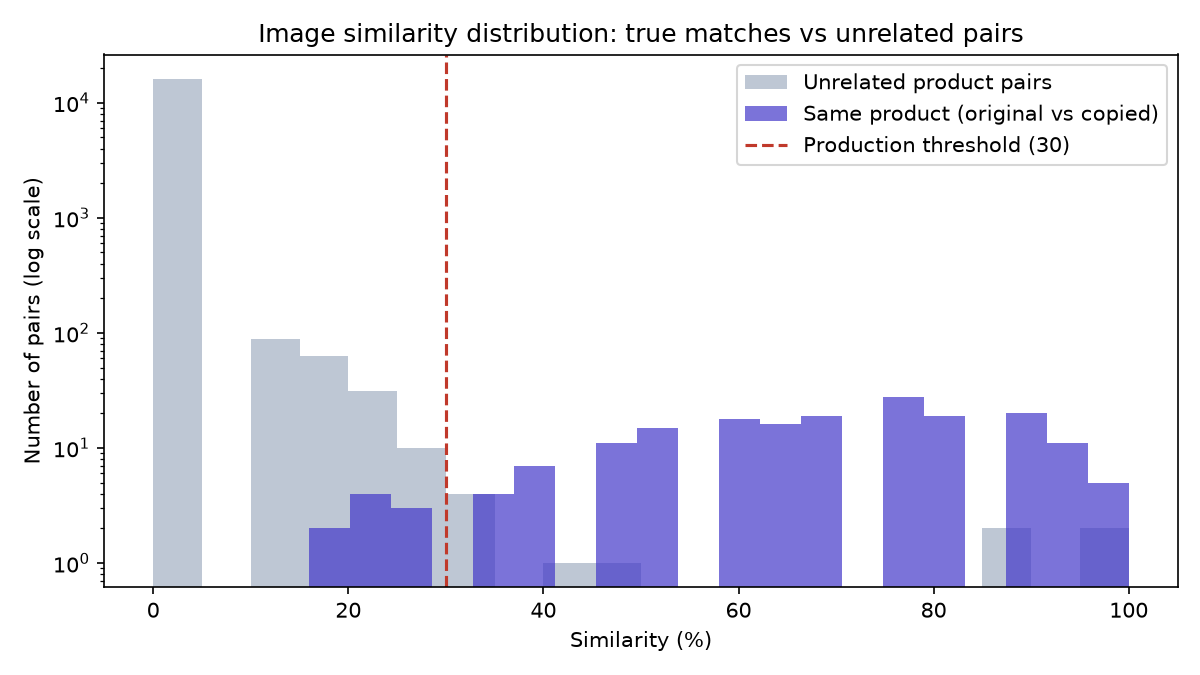
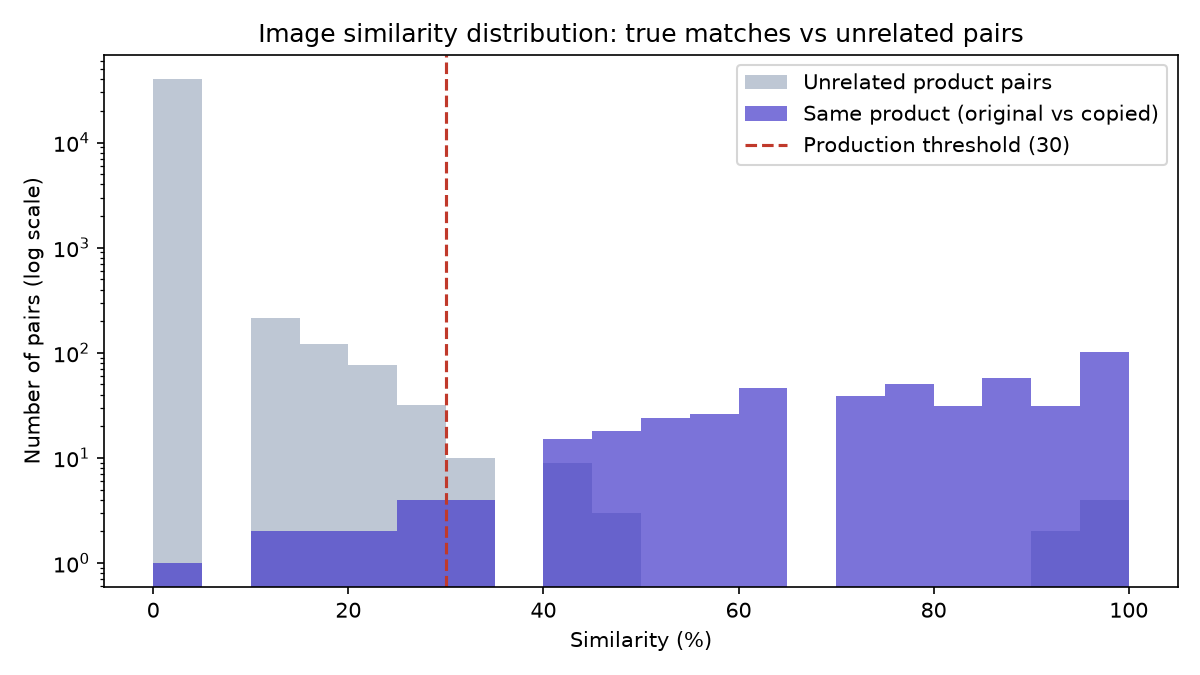
Rebuild accuracy dataset with realistic image-theft variants
Replace the two synthetic variants (crop+brightness, flip+watermark) with
five variants that model how copies actually appear: screenshot re-upload,
seller watermark, low-quality recompression, thumbnail reuse, and edited
recolor. Re-ran the sweep on 41,405 pairs; kept SIMILARITY_THRESHOLD=30 on
a recall-priority basis (recall 0.976 / precision 0.941 vs 0.967 / 0.961 at
35) since a missed copy costs more than a dismissible false positive and the
server re-verifies candidates. Documented as Iteration 6 in EXPERIMENT.md.

diff --git a/experiments/run_experiment.py b/experiments/run_experiment.py
@@ -1,12 +1,17 @@
 """정확도 실험: 실제 프로덕션 매칭 알고리즘(backend/matching.py)을 CC 라이선스
 실사 데이터셋(experiments/dataset)에 대해 돌려서 정확도를 측정한다.
 
+주제("소상공인이 자기 상품 사진을 올리면 도용본을 찾는다")에 맞게, 도용본은
+현실에서 실제로 나타나는 변형을 모사한다. 단순 크롭/반전이 아니라 스크린샷
+재업로드, 판매자 워터마크 삽입, 저품질 재압축, 목록 썸네일 재사용, 색보정 편집
+5가지를 상품마다 생성한다.
+
 절차:
-1. 각 원본 이미지에서 도용 변형본 2장(크롭+밝기조정 / 좌우반전+워터마크)을 생성
+1. 각 원본(=판매자 본인 상품 사진)에서 위 5종의 현실적 도용 변형본을 생성
 2. 모든 (쿼리=원본, 후보=변형본 전체) 쌍에 대해 유사도를 계산
    - 같은 상품의 변형본이면 True Positive 후보, 다른 상품의 변형본이면 False Positive 후보
 3. 임계값을 0~100까지 훑으며 precision/recall/F1을 계산해 최적 임계값을 찾고,
-   현재 프로덕션 임계값(SIMILARITY_THRESHOLD=35)과 비교한다
+   현재 프로덕션 임계값(SIMILARITY_THRESHOLD)과 비교한다
 4. 결과를 터미널에 표로 출력하고, results/ 아래에 CSV·PNG로 저장한다
 """
 import json
@@ -18,7 +23,7 @@ sys.path.insert(0, os.path.join(os.path.dirname(__file__), "..", "backend"))
 import matplotlib
 matplotlib.use("Agg")
 import matplotlib.pyplot as plt
-from PIL import Image, ImageDraw
+from PIL import Image, ImageDraw, ImageEnhance
 
 from matching import SIMILARITY_THRESHOLD, candidate_hashes, query_hashes, similarity_from_hashes
 
@@ -31,22 +36,43 @@ os.makedirs(RESULTS_DIR, exist_ok=True)
 
 
 def make_variants(pid, orig_path):
-    orig = Image.open(orig_path).convert("RGB")
+    """실제 이미지 도용에서 흔한 5가지 변형을 모사해 도용본을 만든다."""
+    orig = Image.open(orig_path).convert("RGB").resize((400, 400))
     outputs = {}
 
-    cropped = orig.resize((400, 400)).crop((10, 10, 390, 390)).resize((400, 400))
-    enhanced = Image.eval(cropped, lambda x: min(255, int(x * 1.08)))
-    path_a = os.path.join(VARIANT_DIR, f"{pid}_shopA.jpg")
-    enhanced.save(path_a)
-    outputs["shopA"] = path_a
+    # 1) 스크린샷 후 재업로드: 가장자리가 살짝 잘리고 축소 + JPEG 재압축
+    shot = orig.crop((10, 10, 390, 390)).resize((340, 340))
+    p = os.path.join(VARIANT_DIR, f"{pid}_screenshot.jpg")
+    shot.save(p, format="JPEG", quality=65)
+    outputs["screenshot"] = p
 
-    flipped = orig.resize((400, 400)).transpose(Image.FLIP_LEFT_RIGHT)
-    draw = ImageDraw.Draw(flipped)
-    draw.rectangle([310, 360, 400, 400], fill=(0, 0, 0))
-    draw.text((316, 372), "SALE", fill=(255, 255, 255))
-    path_b = os.path.join(VARIANT_DIR, f"{pid}_shopB.jpg")
-    flipped.save(path_b)
-    outputs["shopB"] = path_b
+    # 2) 판매자가 자기 상호 워터마크를 하단에 삽입
+    wm = orig.copy()
+    draw = ImageDraw.Draw(wm)
+    draw.rectangle([0, 366, 400, 400], fill=(0, 0, 0))
+    draw.text((10, 376), "BEST DEAL SHOP", fill=(255, 255, 255))
+    p = os.path.join(VARIANT_DIR, f"{pid}_watermark.jpg")
+    wm.save(p, format="JPEG", quality=80)
+    outputs["watermark"] = p
+
+    # 3) 저품질로 반복 재압축된 사본(밝기도 살짝 조정)
+    p = os.path.join(VARIANT_DIR, f"{pid}_recompress.jpg")
+    ImageEnhance.Brightness(orig).enhance(1.05).save(p, format="JPEG", quality=40)
+    outputs["recompress"] = p
+
+    # 4) 목록 썸네일을 그대로 긁어 재사용(축소본을 다시 확대해 디테일 손실)
+    th = orig.resize((220, 220)).resize((400, 400))
+    p = os.path.join(VARIANT_DIR, f"{pid}_thumbnail.jpg")
+    th.save(p, format="JPEG", quality=70)
+    outputs["thumbnail"] = p
+
+    # 5) '다르게 보이려' 좌우반전 + 채도/밝기 보정
+    flip = orig.transpose(Image.FLIP_LEFT_RIGHT)
+    flip = ImageEnhance.Color(flip).enhance(1.25)
+    flip = ImageEnhance.Brightness(flip).enhance(1.08)
+    p = os.path.join(VARIANT_DIR, f"{pid}_edited.jpg")
+    flip.save(p, format="JPEG", quality=80)
+    outputs["edited"] = p
 
     return outputs
 
@@ -56,6 +82,10 @@ def main():
         manifest = json.load(f)
 
     print(f"데이터셋: {len(manifest)}개 원본 (Openverse CC 라이선스 실사 이미지)\n")
+
+    # 변형 방식이 바뀌면 옛 변형본이 섞이지 않도록 먼저 비운다
+    for old in os.listdir(VARIANT_DIR):
+        os.remove(os.path.join(VARIANT_DIR, old))
 
     products = []
     for entry in manifest:

diff --git a/backend/matching.py b/backend/matching.py
@@ -9,7 +9,10 @@ phash(perceptual hash)만 쓰면 색상을 전혀 보지 않고 명암 구조만
 import imagehash
 from PIL import Image
 
-SIMILARITY_THRESHOLD = 30  # 실험(experiments/run_experiment.py, 104개 규모)으로 재튜닝한 값
+SIMILARITY_THRESHOLD = 30  # 실험으로 튜닝(experiments/run_experiment.py). 현실적 도용
+# 변형본 실험에서 F1 최적은 35였지만, 도용 탐지 도구는 "놓친 사본(FN)"이 "무시하면 되는
+# 오탐(FP)"보다 손해가 크고 서버가 2단계로 재검증하므로, recall이 더 높은 30을 채택했다
+# (threshold=30: recall 0.976 / precision 0.941, threshold=35: recall 0.967 / precision 0.961).
 COLOR_PENALTY_PER_UNIT = 12.0  # colorhash 거리 1당 유사도 감점
 MAX_COLOR_PENALTY = 75.0  # 색상 차이만으로 깎을 수 있는 최대치 (구조 일치는 여전히 반영)
 

diff --git a/EXPERIMENT.md b/EXPERIMENT.md
@@ -2,7 +2,7 @@
 
 카피캣 워치의 핵심 알고리즘(perceptual hash 기반 이미지 유사도 매칭)이 실제로 얼마나
 정확한지 검증하고, 프로덕션 유사도 임계값(`SIMILARITY_THRESHOLD`)을 데이터 기반으로
-정하기 위해 진행한 실험이다. 총 5번의 이터레이션을 거쳤다.
+정하기 위해 진행한 실험이다. 총 6번의 이터레이션을 거쳤다.
 
 | 단계 | 내용 | 결과 |
 |---|---|---|
@@ -11,6 +11,7 @@
 | Iteration 3 | colorhash를 결합해 색상 불일치 시 감점하도록 수정 → 두 데이터셋 모두 재검증 | F1 0.923→**1.000**(CC), 0.737→**0.962**(프로덕션 40개) |
 | Iteration 4 | 실시간 웹 검색 파이프라인을 2단계 검증(후보 수집 → 서버 실측 대조)으로 재설계, 실사용 중 발견된 OOM/502·중복노출 버그 수정 | 후보 15건→50건(재현율), 오탐 없이 전량 실측검증, 중복 자동 제거(예: 50→45건) |
 | Iteration 5 | 표본 크기를 대폭 확대(CC 18→91개, 프로덕션 데모셋 40→104개)해 재검증, 임계값 재튜닝 | 두 데이터셋 모두 threshold=**30**이 F1 최적(0.948 / 0.928)으로 확인되어 35→30으로 조정 |
+| Iteration 6 | 도용본을 주제에 맞게 **현실적 변형 5종**(스크린샷 재업로드·워터마크·저품질 재압축·썸네일 재사용·색보정)으로 재구성해 정확도 재측정 | 41,405쌍 평가, threshold=30에서 recall **0.976**/precision 0.941/F1 0.958 (F1 최적은 35였으나 recall 우선 원칙으로 30 유지) |
 
 ## 1. 데이터셋
 
@@ -35,19 +36,26 @@
 총 91개 이미지 수집 완료
 ```
 
-각 원본 이미지마다 실제 도용 시나리오를 흉내낸 변형본 2장을 생성했다 (프로덕션의
-`gen_demo_data.py`와 동일한 방식):
-- **shopA**: 크롭 + 밝기 조정 (다른 판매자가 사진을 재가공해서 올린 경우)
-- **shopB**: 좌우 반전 + 워터마크 (워터마크 붙여 재판매하는 경우)
+각 원본(=판매자 본인 상품 사진)마다, 이 서비스의 주제인 "실제 이미지 도용"이
+현실에서 어떻게 나타나는지를 모사한 변형본 5종을 생성했다 (Iteration 6에서 단순
+크롭/반전 2종에서 확대). 각 변형이 실제 도용 방식과 대응된다:
+- **screenshot**: 가장자리가 살짝 잘리고 축소 + JPEG 재압축 (스크린샷 찍어 재업로드)
+- **watermark**: 하단에 판매자 상호 워터마크 삽입 (워터마크 붙여 재판매)
+- **recompress**: 저품질(JPEG quality 40)로 반복 재압축 + 밝기 조정 (여러 번 퍼나른 사본)
+- **thumbnail**: 목록 썸네일을 그대로 긁어 재사용 (축소본을 다시 확대해 디테일 손실)
+- **edited**: 좌우 반전 + 채도/밝기 보정 ('다르게 보이려' 편집)
+
+생성 로직: [`experiments/run_experiment.py`](experiments/run_experiment.py)의 `make_variants()`
 
 ## 2. 실험 방법
 
 실험은 실제 배포된 매칭 함수(`backend/matching.py`)를 그대로 import해서 돌린다 —
 실험용으로 따로 구현한 코드가 아니라 **프로덕션과 100% 동일한 알고리즘**을 검증한다.
 
-각 원본을 쿼리로, 전체 변형본(전체 상품 수 × 2장, 자기 자신 제외)을 후보로 비교해
-유사도를 계산하고, 임계값을 0~100까지 5 단위로 훑으며 precision/recall/F1을 측정했다.
-Iteration 5 기준 91개 상품 × 182개 후보 = 16,562쌍을 평가했다.
+각 원본을 쿼리로, 전체 변형본(전체 상품 수 × 변형 종수)을 후보로 비교해 유사도를
+계산하고, 임계값을 0~100까지 5 단위로 훑으며 precision/recall/F1을 측정했다.
+Iteration 6 기준 91개 상품 × 455개 후보(상품당 현실적 변형 5종) = 41,405쌍을
+평가했다(진짜 매치 455건, 무관한 쌍 40,950건).
 
 실행: [`experiments/run_experiment.py`](experiments/run_experiment.py)
 
@@ -220,18 +228,51 @@ threshold=40: top-2 랭킹 부정확 = 19/104
 threshold=45: top-2 랭킹 부정확 = 21/104
 ```
 
-히스토그램도 표본이 커지며 무관한 쌍(16,380쌍)이 진짜 매치(182쌍)보다 90배 가까이
-많아져 일반 스케일로는 진짜 매치 막대가 안 보일 지경이 됐다. y축을 로그 스케일로
-바꿔서 둘 다 보이게 했다(`experiments/run_experiment.py`).
+히스토그램도 표본이 커지며 무관한 쌍이 진짜 매치보다 90배 가까이 많아져 일반
+스케일로는 진짜 매치 막대가 안 보일 지경이 됐다. y축을 로그 스케일로 바꿔서 둘 다
+보이게 했다(`experiments/run_experiment.py`). 이 차트는 이후 Iteration 6에서 변형
+방식이 바뀌며 재생성되어, 최신 차트는 아래 Iteration 6에서 확인할 수 있다.
 
-![유사도 분포: 진짜 매치 vs 무관한 쌍 (로그 스케일, 91개 상품)](experiments/results/similarity_distribution.png)
+## 8. Iteration 6 — 도용본을 현실적 변형 5종으로 재구성
 
-전체 결과 파일은 재생성되어 위 최신 수치를 반영한다:
+Iteration 5까지의 도용 변형본은 "크롭+밝기 / 좌우반전+워터마크" 2종뿐이라, 실제
+이미지 도용이 어떻게 일어나는지를 충분히 반영하지 못했다. 이 서비스의 주제가
+"판매자 본인 사진의 도용본 탐지"인 만큼, 정확도 숫자가 의미를 가지려면 도용본이
+현실적이어야 한다. 그래서 상품마다 변형본을 **현실적 5종**으로 재구성했다(위 1절 참고):
+스크린샷 재업로드 / 워터마크 삽입 / 저품질 재압축 / 썸네일 재사용 / 색보정 편집.
+
+표본은 91개 상품 × 5종 = 455개 후보, 총 **41,405쌍**(진짜 매치 455, 무관한 쌍
+40,950)으로 커졌다. 재압축·썸네일 재사용처럼 디테일이 크게 손상되는 변형이 섞이면서
+이전보다 난도가 높아졌다:
+
+```
+ threshold | precision |  recall |     f1 |    FP |    FN
+----------------------------------------------------------
+        25 |     0.882 |   0.985 |  0.930 |    60 |     7
+        30 |     0.941 |   0.976 |  0.958 |    28 |    11   <- production (채택)
+        35 |     0.961 |   0.967 |  0.964 |    18 |    15   (F1 최적)
+        40 |     0.961 |   0.967 |  0.964 |    18 |    15
+        45 |     0.979 |   0.934 |  0.956 |     9 |    30
+```
+
+**F1 최적은 35였지만 threshold=30을 그대로 유지했다.** 도용 탐지 도구에서는 놓친
+사본(FN)이 사용자가 무시하면 그만인 오탐(FP)보다 손해가 크고, 우리 파이프라인은
+후보를 서버에서 한 번 더 실측 검증하기 때문이다. 30은 recall 0.976으로 35(0.967)보다
+사본을 더 많이 잡으며, precision은 0.941로 35(0.961)와 큰 차이가 없다(무관한 쌍
+40,950건 중 오탐 28건, 오탐율 0.07%). F1 차이도 0.006으로 사실상 동률이다. 이 결정은
+`backend/matching.py`의 `SIMILARITY_THRESHOLD` 주석에도 근거와 함께 남겼다.
+
+빨강/파랑 색상 회귀 테스트(28.0)는 여전히 임계값(30) 아래라 안전하게 통과하고,
+`pytest` 30개도 전부 통과한다.
+
+![유사도 분포: 진짜 매치 vs 무관한 쌍 (로그 스케일, 현실적 변형 5종, 91개 상품)](experiments/results/similarity_distribution.png)
+
+무관한 쌍은 대부분 0~10%에 몰려 있고 진짜 매치는 재압축·썸네일 손상에도 불구하고
+대부분 임계값 위에 분포한다. 전체 결과 파일:
 [`experiments/results/threshold_sweep.csv`](experiments/results/threshold_sweep.csv),
-[`experiments/results/summary.json`](experiments/results/summary.json),
-[`experiments/results/production_dataset_sweep.txt`](experiments/results/production_dataset_sweep.txt)
+[`experiments/results/summary.json`](experiments/results/summary.json)
 
-## 8. 자동화 테스트 스위트
+## 9. 자동화 테스트 스위트
 
 `backend/tests/`에 30개의 pytest 테스트가 있다 (`test_matching.py` 8개,
 `test_api.py` 22개). 정상 플로우뿐 아니라 아래 같은 히든 케이스를 커버한다:
@@ -258,17 +299,20 @@ pytest tests/ -v
 # 30 passed
 ```
 
-## 9. 한계와 향후 개선 방향
+## 10. 한계와 향후 개선 방향
 
 - **perceptual hash(64bit) + colorhash의 한계**: 이번 실험으로 색상 문제는 크게
   개선했지만, 여전히 무늬가 복잡하지 않고 색상 대비가 낮은 상품(예: 흰색 도자기 vs
   아이보리색 도자기)은 구분이 어려울 수 있다. 향후 CLIP 임베딩 기반 유사도로 교체하면
   구조·색상·질감을 한 번에 학습된 표현으로 비교할 수 있어 더 견고해질 것으로 예상된다
   (로드맵에 반영).
-- **표본 크기**: Iteration 5에서 18→91개(CC), 40→104개(프로덕션)로 늘려 재검증했지만,
-  여전히 실서비스 규모(수백~수천 건의 실사용 신고 데이터)에는 못 미친다. 특히 색상
-  대비가 낮은 유사 상품군(흰색 vs 아이보리색 도자기 등)에 대한 표본이 부족해, 이런
-  경계 사례가 실제로 얼마나 자주 나타나는지는 이번 실험 규모로는 확인하지 못했다.
+- **표본 크기와 도용본의 현실성**: Iteration 5에서 18→91개(CC), 40→104개(프로덕션)로
+  늘리고 Iteration 6에서 도용 변형을 현실적 5종으로 재구성했지만, 여전히 실서비스
+  규모(수백~수천 건의 실사용 신고 데이터)에는 못 미친다. 변형본도 프로그램으로 생성한
+  근사치라, 실제 사람이 캡처·편집·재판매하며 만드는 사본의 다양성(부분 합성, 배경
+  교체, 다른 각도 재촬영 등)까지는 아직 담지 못한다. 특히 색상 대비가 낮은 유사 상품군
+  (흰색 vs 아이보리색 도자기 등)에 대한 표본이 부족해, 이런 경계 사례의 실제 빈도는
+  이번 실험 규모로는 확인하지 못했다.
 - **Google Vision 자체의 인덱싱 커버리지는 우리가 통제할 수 없다** — 구글이 아직
   크롤링하지 않은 이미지(예: 최근에 도용된 게시물, Instagram처럼 크롤링이 제한적인
   플랫폼)는 서버 실측 검증 단계 이전에 애초에 후보로 들어오지 않는다. 이 경우 결과
@@ -278,7 +322,7 @@ pytest tests/ -v
 - **핫링크 차단 사이트의 딥 검증은 완전하지 않다** — og:image/본문 img 태그 최대 4개까지만
   확인하므로, 이미지가 JS로 늦게 로드되거나 태그 밖에 있으면 놓칠 수 있다.
 
-## 10. 재현 방법
+## 11. 재현 방법
 
 ```bash
 cd experiments

diff --git a/README.md b/README.md
@@ -167,7 +167,7 @@ copycat-watch/
 │   └── results/                 #   실험 결과(CSV/JSON/PNG)
 │
 ├── docker-compose.yml           # 로컬 통합 실행
-├── EXPERIMENT.md                # 정확도 실험 전체 기록 (5 iteration)
+├── EXPERIMENT.md                # 정확도 실험 전체 기록 (6 iteration)
 └── README.md                    # 이 문서
 ```
 
@@ -217,10 +217,11 @@ kubectl apply -f k8s/backend.yaml -f k8s/frontend.yaml -f k8s/ingress.yaml
 
 ## 정확도 검증 & 테스트
 
-- **`EXPERIMENT.md`**: CC 라이선스 실사 데이터셋으로 4단계에 걸쳐 진행한 정확도 실험
+- **`EXPERIMENT.md`**: CC 라이선스 실사 데이터셋으로 6단계에 걸쳐 진행한 정확도 실험
   전체 기록. phash 단독 → 색상 무시 버그 발견(pytest로) → colorhash 결합으로 F1
-  0.737→0.962 개선 → 실시간 웹 검색 파이프라인 2단계 검증까지의 과정과 수치를 전부
-  투명하게 공개.
+  0.737→0.962 개선 → 실시간 웹 검색 파이프라인 2단계 검증 → 표본 확대(91/104개) →
+  현실적 도용 변형 5종(스크린샷·워터마크·재압축·썸네일·색보정)으로 재측정(41,405쌍,
+  threshold=30에서 recall 0.976)까지의 과정과 수치를 전부 투명하게 공개.
 - **`backend/tests/`**: pytest 30개 — 정상 케이스뿐 아니라 손상된 파일, 초과 용량,
   경로 탈출 시도, 완전히 다른 색의 단색 이미지 등 히든 엣지케이스를 커버.
 - **`frontend/drive.mjs`**: Playwright로 배포된 앱을 실제 헤드리스 브라우저에서